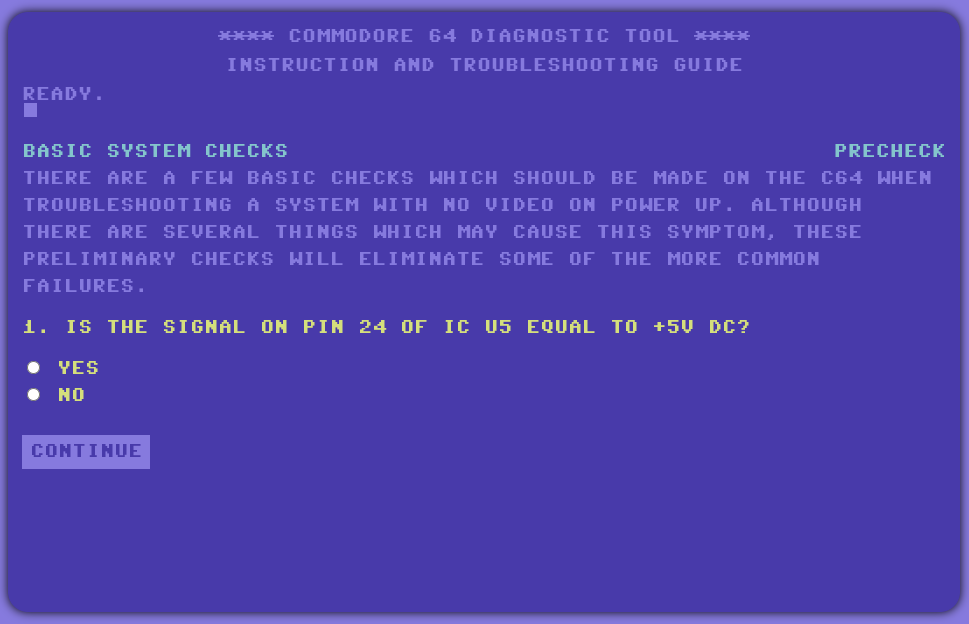
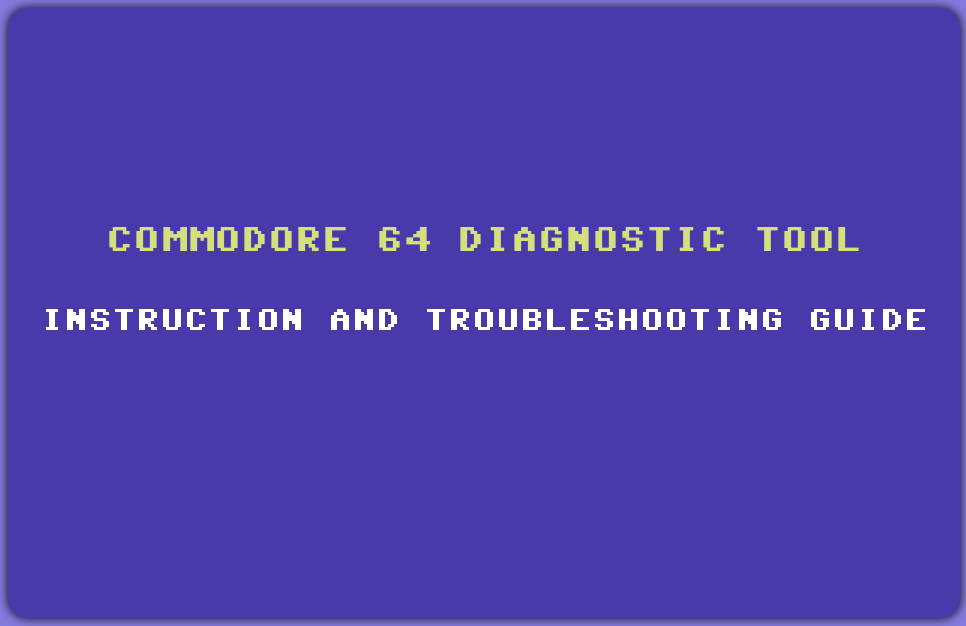
images

diff --git a/og_image.html b/og_image.html
@@ -1,0 +1,43 @@
+<!DOCTYPE html>
+<html lang="en">
+
+<head>
+    <script async src="https://www.googletagmanager.com/gtag/js?id=G-6TCQPFJPE1"></script>
+    <script>
+        window.dataLayer = window.dataLayer || [];
+        function gtag() { dataLayer.push(arguments); }
+        gtag('js', new Date());
+
+        gtag('config', 'G-6TCQPFJPE1');
+    </script>
+    <script src="https://script.bugpilot.io/8ba5c55e-ddd5-4b16-a68b-32a4e89a0d42/adopto.js" defer async></script>
+    <meta charset="UTF-8">
+    <meta name="viewport" content="width=device-width, initial-scale=1.0">
+    <meta http-equiv="X-UA-Compatible" content="ie=edge">
+    <title>C64 Diagnostic Tool - Troubleshooting Commodore 64</title>
+    <meta name="description" content="The C64 Diagnostic Tool, powered by the iconic C64 Diagnostic Instruction Manual, smoothly guides you through ICs and components, tackling technical challenges and bringing your classic computing joy back to life.">
+    <meta name="keywords" content="c64, commodore 64, c64 troubleshooting, commodore 64 troubleshooting, c64 diagnostic, commodore 64 diagnostic, retro computers, retro gaming, vintage computers">
+    <meta name="robots" content="index, follow">
+    <link rel="canonical" href="https://c64diagnostic.com/">
+    <link rel="icon" href="favicon.png" type="image/png">
+    <meta property="og:title" content="C64 Diagnostic Tool - Troubleshooting Commodore 64">
+    <meta property="og:description" content="The C64 Diagnostic Tool, powered by the iconic C64 Diagnostic Instruction Manual, smoothly guides you through ICs and components, tackling technical challenges and bringing your classic computing joy back to life.">
+    <meta property="og:image" content="https://www.c64diagnostic.com/c64tool.png">
+    <meta property="og:url" content="https://www.c64diagnostic.com/">
+    <link rel="stylesheet" href="main.min.css">
+    <script src="https://ajax.googleapis.com/ajax/libs/jquery/3.7.1/jquery.min.js"></script>
+    <script src="index.js"></script>
+</head>
+
+<body>
+    <div class="area">
+        <div class="title"><br><br><br><br><br><br><br><br><br><br><br><br>
+            <p class="center color-yellow" style="font-size: 27px !important;"> COMMODORE 64 DIAGNOSTIC TOOL </p>
+            <br>
+            <p class="center color-white" style="font-size: 24px !important;">INSTRUCTION AND TROUBLESHOOTING GUIDE</p>
+        </div>
+
+    </div>
+
+</body>
+</html>
